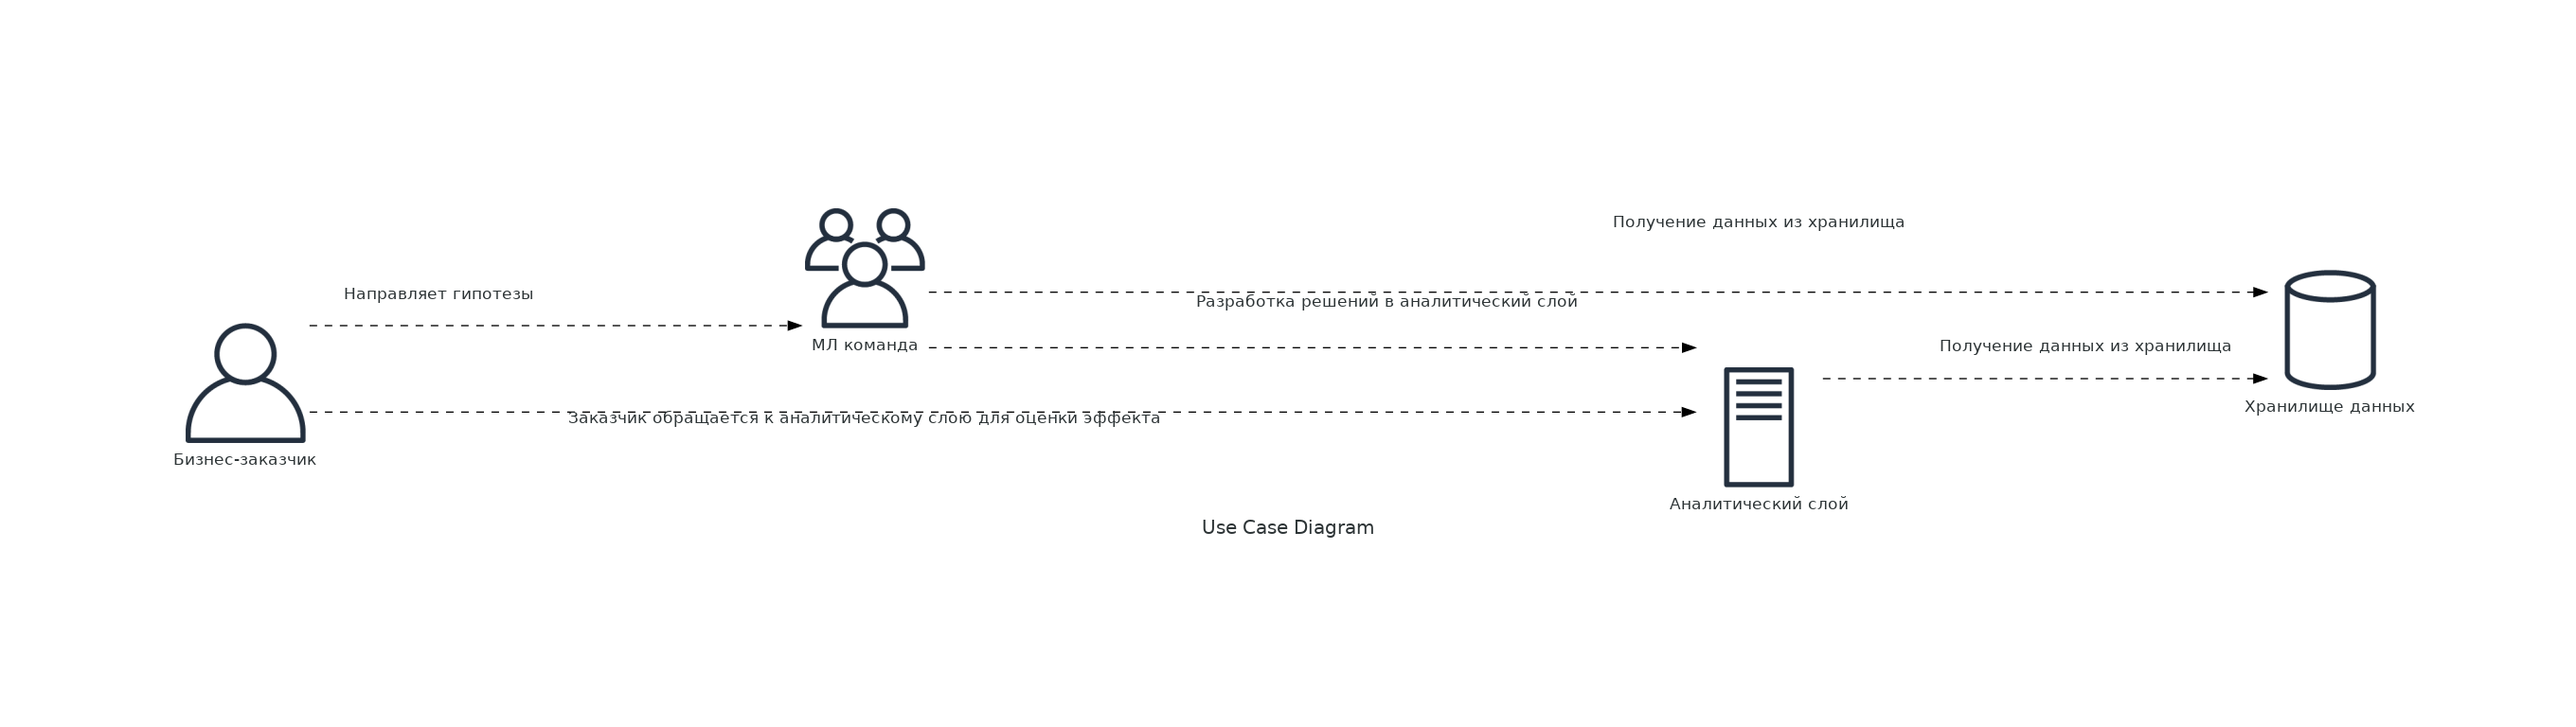
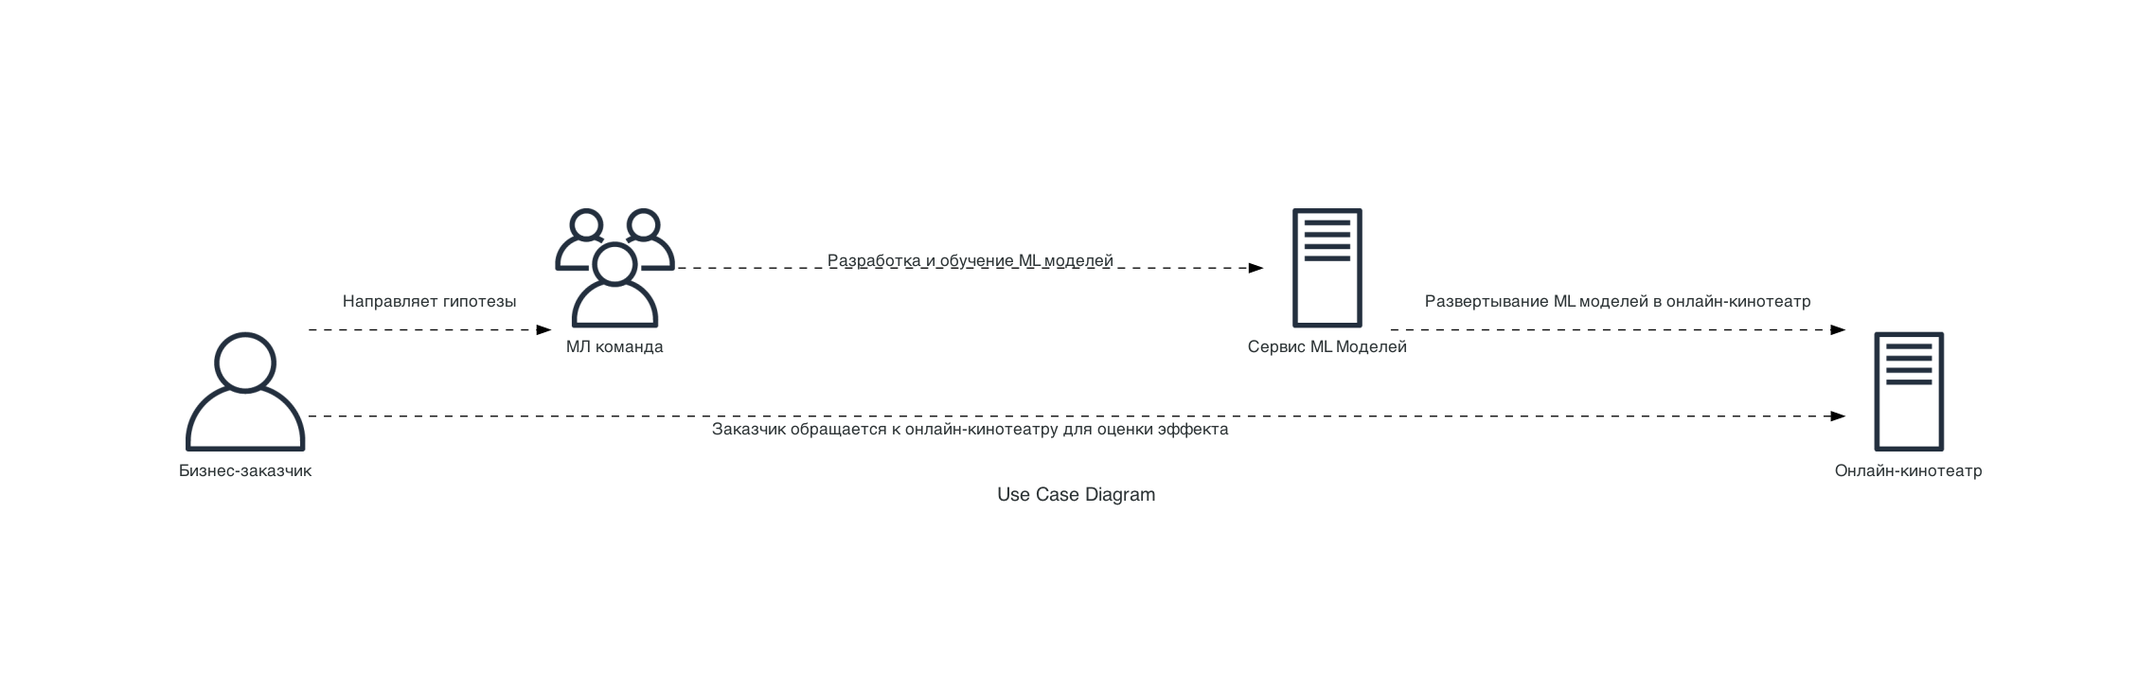
appended svg

diff --git a/src/usecases.py b/src/usecases.py
@@ -1,18 +1,17 @@
 from diagrams import Diagram, Cluster, Edge
-from diagrams.aws.general import User, Users, GenericDatabase, TraditionalServer
+from diagrams.aws.general import User, Users, TraditionalServer
 
 with Diagram("Use Case Diagram", show=True):
 
     # Define actors
     business_customer = User("Бизнес-заказчик")
     ml_team = Users("МЛ команда")
-    data_storage = GenericDatabase("Хранилище данных")
-    analytical_layer = TraditionalServer("Аналитический слой")
+    ml_service = TraditionalServer("Сервис ML Моделей")
+    online_cinema = TraditionalServer("Онлайн-кинотеатр")
 
     # Define relations
-    with Cluster("Отношения"):
+    with Cluster("Use Cases"):
         business_customer >> Edge(color="black", style="dashed", label="Направляет гипотезы") >> ml_team
-        business_customer >> Edge(color="black", style="dashed", label="Заказчик обращается к аналитическому слою для оценки эффекта") >> analytical_layer
-        ml_team >> Edge(color="black", style="dashed", label="Получение данных из хранилища") >> data_storage
-        ml_team >> Edge(color="black", style="dashed", label="Разработка решений в аналитический слой") >> analytical_layer
-        analytical_layer >> Edge(color="black", style="dashed", label="Получение данных из хранилища") >> data_storage
+        business_customer >> Edge(color="black", style="dashed", label="Заказчик обращается к онлайн-кинотеатру для оценки эффекта") >> online_cinema
+        ml_team >> Edge(color="black", style="dashed", label="Разработка и обучение ML моделей") >> ml_service
+        ml_service >> Edge(color="black", style="dashed", label="Развертывание ML моделей в онлайн-кинотеатр") >> online_cinema
